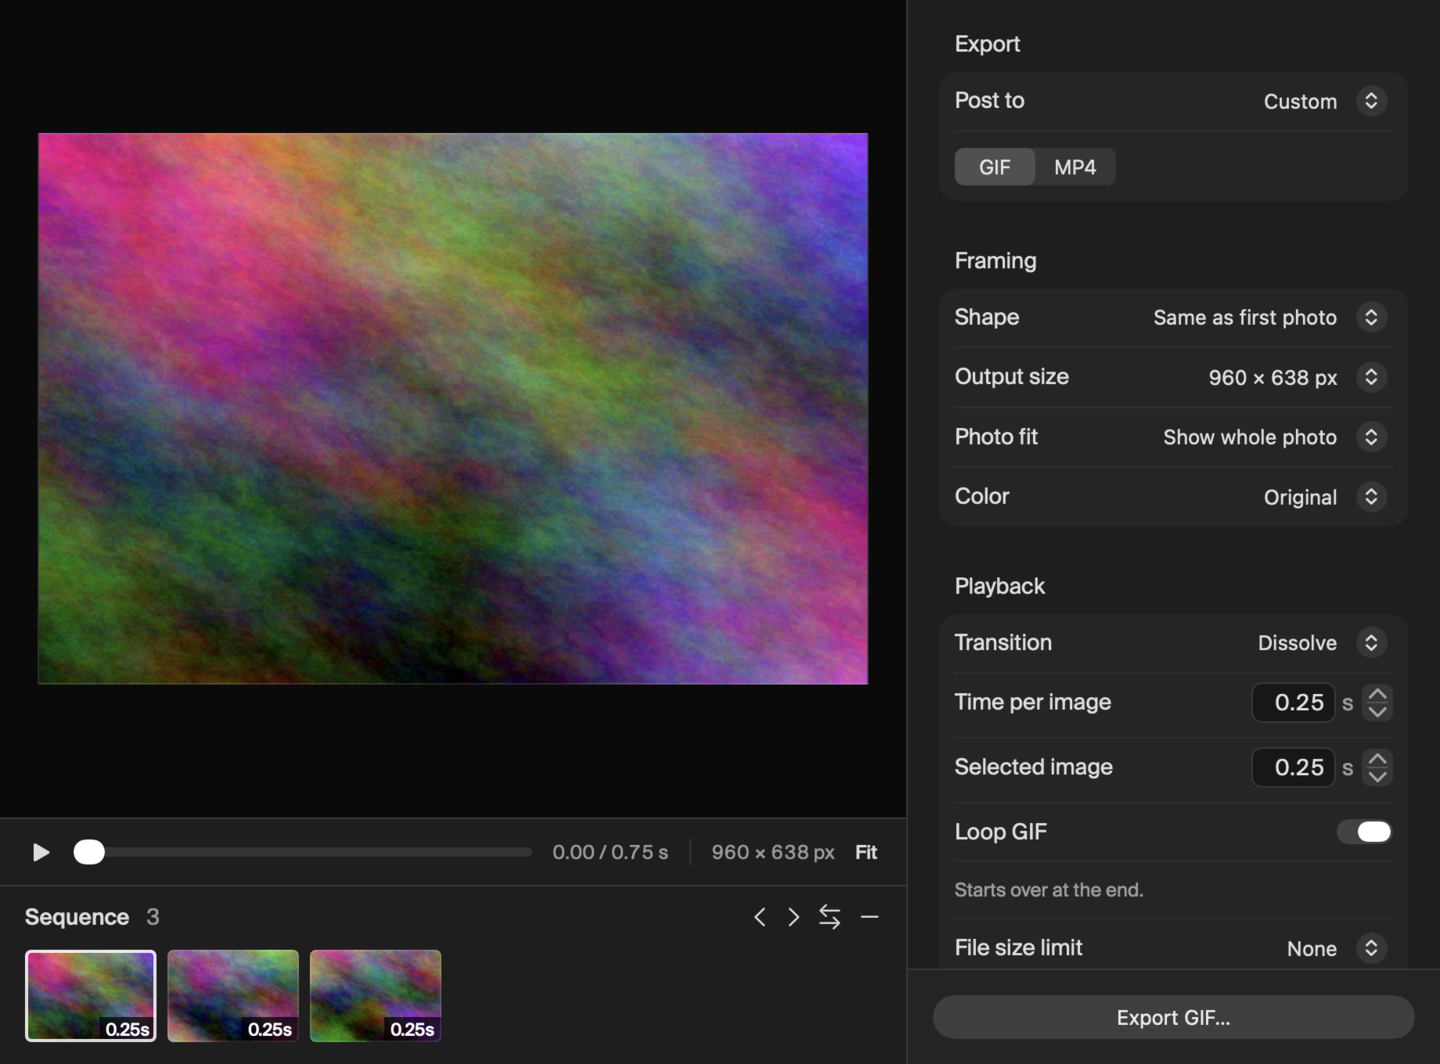
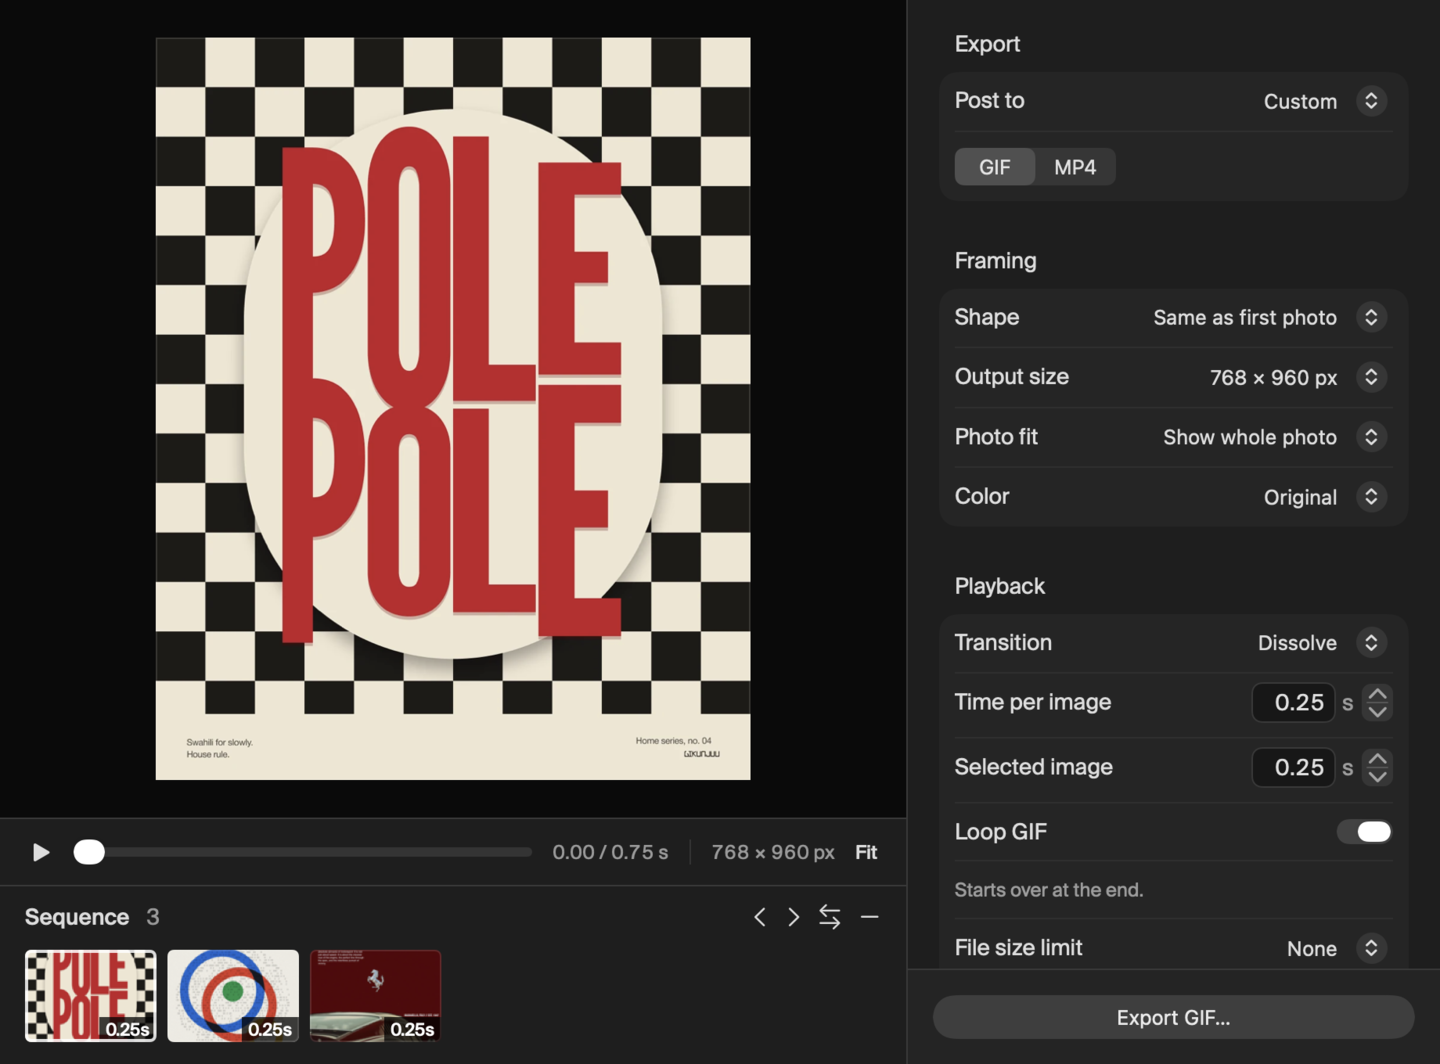
Feature Playground posters in the app screenshot

diff --git a/README.md b/README.md
@@ -2,7 +2,9 @@
 
 A macOS app for turning photos into looping GIFs and H.264 MP4s. Import photos or folders, drag to reorder, preview your sequence, and export with custom timing, crops, and transitions.
 
-![Guks Studio showing the photo preview, sequence, and export controls](docs/guks-studio.png)
+![Guks Studio showing Pole pole in the preview, with Rings and Scuderia in the sequence](docs/guks-studio.png)
+
+Artwork from [Gikunju’s Playground](https://www.gikunju.design/playground).
 
 Requires macOS 13 or later. The build script uses Apple’s command-line developer tools and produces a universal app for Apple silicon and Intel Macs.
 
